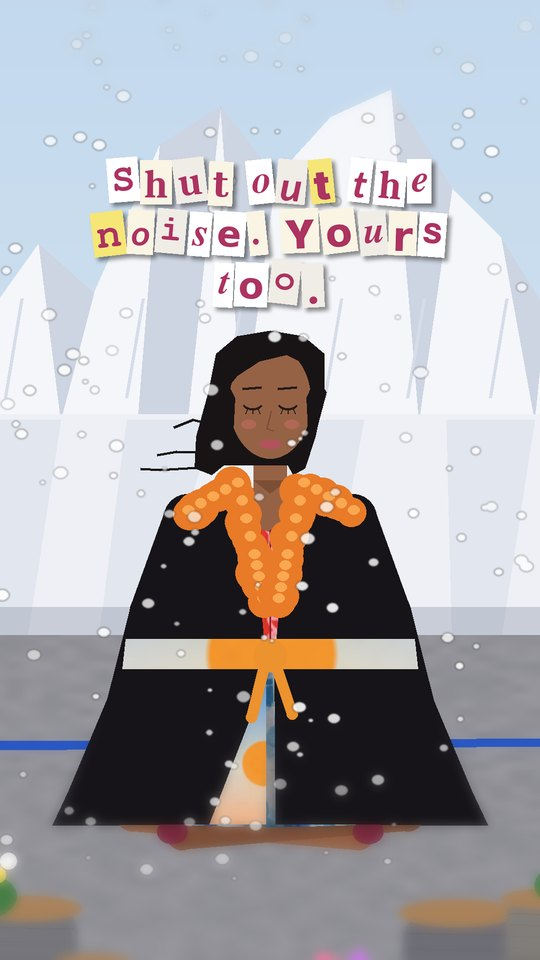
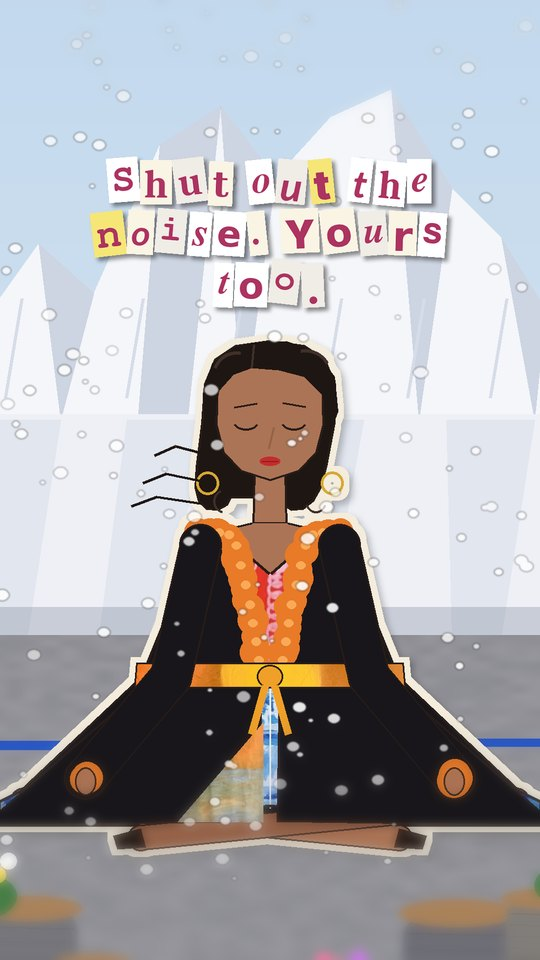
Reel 3 storyboard redrawn with the Reverie-matched girl, real Sunset boxes and Colours of Janaki coat
Claude-Session: https://claude.ai/code/session_019PesBt99WngamYtmRE4Gta

Changed region(s): [[0.0, 0.3438, 1.0, 0.9062]]

diff --git a/reel3/girl.py b/reel3/girl.py
@@ -67,7 +67,7 @@ def _skirt_poly():
     return [(-37, 290)] + right + _wavy_hem(566, 182) + [(-x, y) for x, y in right[::-1]]
 
 
-def _bob(d, f, back=False):
+def _bob(d, f, back=False, wind=0.0):
     """Straight bob: dome on top, straight sides, ends just above the shoulders turning in."""
     def side(sx, back):
         pts = [(sx * 30, 2), (sx * 48, 14), (sx * 57, 36), (sx * 58, 70), (sx * 57, 108), (sx * 55, 126), (sx * 50, 138),
@@ -76,6 +76,7 @@ def _bob(d, f, back=False):
             pts = pts[:-4] + [(sx * 44, 146), (sx * 30, 151), (sx * 14, 153)]
         return pts
     out = [(0, -2)] + side(1, back) + side(-1, back)[::-1]
+    out = [(x + wind * 14 * max(0.0, (y - 60) / 90), y) for x, y in out]
     d.polygon(f.pl(out), fill=HAIR, outline=LINE, width=f.w(2))
 
 
@@ -91,23 +92,103 @@ def _hair_front(d, f):
         d.arc([*f.p(sx * 40 - 9, 128), *f.p(sx * 40 + 9, 148)], 20 if sx > 0 else 100, 160 if sx > 0 else 250, fill=HAIR_HI, width=f.w(2))
 
 
-def draw(layer, cx, top, height, view="front", eyes="closed", necklace=None, earrings=True):
-    """Draw the girl onto RGBA `layer` (with sticker edge). necklace: None | 'gold' | 'diamond'."""
+
+COAT = (24, 22, 26)
+FUR, FUR_L = (232, 122, 40), (250, 170, 86)
+JANAKI = Image.open(os.path.join(A, "janaki_full.jpg")).convert("RGB")   # coat lining: the whole painting
+SUNBELT = Image.open(os.path.join(A, "janaki_sun.jpg")).convert("RGB")   # belt: the sun
+
+ARMS = {
+    "down":     ([(-60, 176), (-66, 300), (-70, 420)], [(60, 176), (66, 300), (70, 420)]),
+    "necklace": ([(-60, 176), (-66, 300), (-70, 420)], [(60, 176), (80, 262), (20, 196)]),
+    "knees":    ([(-60, 176), (-86, 290), (-160, 378)], [(60, 176), (86, 290), (160, 378)]),
+    "crayon":   ([(-60, 176), (-82, 290), (-110, 392)], [(60, 176), (88, 290), (40, 396)]),
+    "stitch":   ([(-60, 176), (-86, 286), (-32, 336)], [(60, 176), (86, 286), (30, 330)]),
+}
+
+
+def _skirt_seat():
+    right = [(37, 290), (70, 318), (130, 350), (196, 378), (236, 398)]
+    xs = np.linspace(236, -236, 70)
+    hem = [(x, 410 + 7 * np.cos((x + 236) / 472 * 5 * 2 * np.pi)) for x in xs]
+    return [(-37, 290)] + right + hem + [(-x, y) for x, y in right[::-1]]
+
+
+def _fur(d, pts, r, seed=0):
+    rng = np.random.default_rng(seed)
+    pts = np.array(pts, float)
+    seg = np.concatenate([np.linspace(pts[i], pts[i + 1], 7, endpoint=False) for i in range(len(pts) - 1)] + [pts[-1:]])
+    for q in seg:
+        rr = r * rng.uniform(0.8, 1.15); j = rng.normal(0, r * 0.12, 2)
+        d.ellipse([q[0] + j[0] - rr, q[1] + j[1] - rr, q[0] + j[0] + rr, q[1] + j[1] + rr], fill=FUR)
+    for q in seg[::2]:
+        rr = r * 0.45
+        d.ellipse([q[0] - rr * 0.6, q[1] - rr * 1.1, q[0] + rr * 0.9, q[1] + rr * 0.2], fill=FUR_L)
+
+
+def _coat_back(fig, f, coat, pose):
+    d = ImageDraw.Draw(fig)
+    hem_y = 420 if pose == "seat" else 700
+    hem_x = 250 if pose == "seat" else 120
+    if coat == "on":
+        d.polygon(f.pl([(-60, 162), (60, 162), (112, 290), (hem_x, hem_y), (-hem_x, hem_y), (-112, 290)]), fill=COAT, outline=LINE, width=f.w(2))
+    else:  # slipped to the elbows: the lining shows
+        d.polygon(f.pl([(-92, 268), (92, 268), (142, 320), (262, 420), (-262, 420), (-142, 320)]), fill=COAT, outline=LINE, width=f.w(2))
+        for sx in (-1, 1):
+            _tex(fig, JANAKI, f.pl([(sx * 90, 272), (sx * 72, 300), (sx * 112, 410), (sx * 250, 416), (sx * 140, 322)]))
+        d = ImageDraw.Draw(fig)
+        for sx in (-1, 1):
+            _fur(d, f.pl([(sx * 92, 268), (sx * 120, 300), (sx * 146, 330)]), f.w(12), seed=8 + sx)
+
+
+def _coat_front(fig, f, pose):
+    d = ImageDraw.Draw(fig)
+    hem_y = 420 if pose == "seat" else 700
+    hem_x = 250 if pose == "seat" else 120
+    for sx in (-1, 1):
+        panel = [(sx * 64, 166), (sx * 30, 168), (sx * 8, 292), (sx * 6, hem_y - 4), (sx * hem_x, hem_y), (sx * 112, 300), (sx * 70, 200)]
+        d.polygon(f.pl(panel), fill=COAT, outline=LINE, width=f.w(2))
+    _tex(fig, JANAKI, f.pl([(-6, 330), (-6, hem_y - 4), (-80, hem_y - 4)]))   # lining flash
+    d = ImageDraw.Draw(fig)
+    for sx in (-1, 1):
+        _fur(d, f.pl([(sx * 62, 164), (sx * 32, 170), (sx * 18, 230), (sx * 9, 286)]), f.w(12), seed=1 + sx)
+    _tex(fig, SUNBELT, f.pl([(-116, 278), (116, 278), (118, 300), (-118, 300)]))   # sun belt
+    d = ImageDraw.Draw(fig)
+    d.polygon(f.pl([(-116, 278), (116, 278), (118, 300), (-118, 300)]), outline=LINE, width=f.w(1.5))
+    d.ellipse([*f.p(-11, 280), *f.p(11, 300)], fill=(240, 160, 40), outline=LINE, width=f.w(1.5))
+    for sx in (-1, 1):
+        d.line(f.pl([(sx * 4, 298), (sx * 16, 340)]), fill=(240, 160, 40), width=f.w(6))
+
+
+def draw(layer, cx, top, height, view="front", eyes="closed", necklace=None, earrings=True,
+         pose="stand", arms="down", coat=None, wind=0.0):
+    """Draw the girl onto RGBA `layer` (with sticker edge).
+    pose: stand | seat (cross-legged).  arms: down | necklace | knees | crayon | stitch.
+    coat: None | on | slip (black long coat, orange fur, Colours of Janaki lining, sun belt).  Returns the Fig mapping."""
     f = Fig(cx, top, height / 975)
     fig = Image.new("RGBA", layer.size, (0, 0, 0, 0)); d = ImageDraw.Draw(fig)
-    _bob(d, f, back=(view == "back"))
-    # legs + heels
-    for sx in (-1, 1):
+    _bob(d, f, back=(view == "back"), wind=wind)
+    if coat:
+        _coat_back(fig, f, coat, pose)
+        d = ImageDraw.Draw(fig)
+    if pose == "seat":
+        for sx in (-1, 1):  # crossed shins under the hem
+            _limb(d, [f.p(sx * 214, 398), f.p(-sx * 112, 430)], f.w(20), SKIN if sx < 0 else SKIN_SH, f)
+            d.polygon(f.pl([(-sx * 112, 422), (-sx * 136, 428), (-sx * 132, 440), (-sx * 108, 438)]), fill=LINE)
+    for sx in ((-1, 1) if pose == "stand" else ()):
         _limb(d, [f.p(sx * 20, 560), f.p(sx * 19, 760), f.p(sx * 17, 950)], f.w(20), SKIN if view == "front" else SKIN_SH, f)
         d.line(f.pl([(sx * 17 - 9, 952), (sx * 17 + 9, 952)]), fill=LINE, width=f.w(3))
         d.line(f.pl([(sx * 17 + 6, 950), (sx * 17 + 10, 968)]), fill=LINE, width=f.w(3))
         d.line(f.pl([(sx * 17 - 8, 942), (sx * 17 + 9, 940)]), fill=GOLD, width=f.w(2))
     # skirt (front and back are the same print)
-    sk = f.pl(_skirt_poly())
+    sk = f.pl(_skirt_poly() if pose == "stand" else _skirt_seat())
     _tex(fig, SKIRT, sk)
     d = ImageDraw.Draw(fig)
     for x in (-150, -95, -45, 0, 45, 95, 150):  # panel seams
-        d.line([f.p(x * 0.2, 292), f.p(x, 566 - 6 * abs(np.cos(x / 20)))], fill=(255, 255, 255, 70), width=f.w(1.5))
+        if pose == "stand":
+            d.line([f.p(x * 0.2, 292), f.p(x, 566 - 6 * abs(np.cos(x / 20)))], fill=(255, 255, 255, 70), width=f.w(1.5))
+        else:
+            d.line([f.p(x * 0.2, 292), f.p(x * 1.5, 404)], fill=(255, 255, 255, 70), width=f.w(1.5))
     d.polygon(sk, outline=LINE, width=f.w(2.5))
     # neck + shoulders (angular, like Reverie)
     d.polygon(f.pl([(-14, 112), (14, 112), (15, 160), (-15, 160)]), fill=SKIN, outline=LINE, width=f.w(2))
@@ -163,14 +244,32 @@ def draw(layer, cx, top, height, view="front", eyes="closed", necklace=None, ear
         for sx in (-1, 1):
             d2.arc([*f.p(sx * 30 - 22, 112), *f.p(sx * 30 + 22, 150)], 30 if sx > 0 else 90, 150 if sx > 0 else 160, fill=HAIR_HI, width=f.w(3))
         d2.line(f.pl([(0, 4), (0, 60)]), fill=HAIR_HI, width=f.w(2))
+    if coat == "on":
+        _coat_front(fig, f, pose)
+        d = ImageDraw.Draw(fig)
     # arms (in front of the skirt edge)
-    for sx in (-1, 1):
-        _limb(d, [f.p(sx * 60, 176), f.p(sx * 66, 300), f.p(sx * 70, 420)], f.w(17), SKIN, f)
-        d.ellipse([*f.p(sx * 70 - 9, 414), *f.p(sx * 70 + 9, 440)], fill=SKIN, outline=LINE, width=f.w(1.5))
+    for sx, path in zip((-1, 1), ARMS[arms]):
+        pts = [f.p(x, y) for x, y in path]
+        if coat == "on":
+            _limb(d, pts, f.w(34), COAT, f)
+        elif coat == "slip":
+            _limb(d, pts[:2], f.w(17), SKIN, f); _limb(d, pts[1:], f.w(34), COAT, f)
+        else:
+            _limb(d, pts, f.w(17), SKIN, f)
+        h = pts[-1]
+        if coat:
+            _fur(d, [h, (h[0] + 1, h[1])], f.w(13), seed=3 + sx)
+        r = f.w(9)
+        d.ellipse([h[0] - r, h[1] - r, h[0] + r, h[1] + r + f.w(6)], fill=SKIN, outline=LINE, width=f.w(1.5))
     # sticker edge, like Reverie
     a = fig.split()[3]
     edge = a.filter(ImageFilter.MaxFilter(f.w(10) | 1))
     st = Image.new("RGBA", layer.size, STICKER + (0,)); st.putalpha(edge)
     sh = Image.new("RGBA", layer.size, (0, 0, 0, 0)); sh.putalpha(edge.filter(ImageFilter.GaussianBlur(6)).point(lambda v: v * 0.25))
     layer.alpha_composite(sh, (6, 8)); layer.alpha_composite(st); layer.alpha_composite(fig)
-    return layer
+    if wind:
+        d = ImageDraw.Draw(layer)
+        for k, y in enumerate((96, 120, 140)):
+            x0 = -np.sign(wind) * -60 if False else np.sign(wind) * 60
+            d.line(f.pl([(x0, y), (x0 + np.sign(wind) * (22 + 8 * k), y - 6), (x0 + np.sign(wind) * (40 + 10 * k), y + 2)]), fill=HAIR, width=f.w(2.5), joint="curve")
+    return f

diff --git a/reel3/board.py b/reel3/board.py
@@ -47,8 +47,9 @@ def janaki_standin(w=640, h=420, seed=3):
     return Image.fromarray(np.clip(img, 0, 255).astype(np.uint8))
 
 
-JANAKI = janaki_standin()
-SUNBELT = JANAKI.crop((int(640 * 0.62) - 150, int(420 * 0.58) - 60, int(640 * 0.62) + 150, int(420 * 0.58) + 60))
+import girl as G2  # the campaign girl, matched to Reverie
+JANAKI = G2.JANAKI      # Colours of Janaki: coat lining
+SUNBELT = G2.SUNBELT    # its sun: the belt
 
 # ---------------- palette ----------------
 SKIN, SKIN_D = (150, 98, 70), (124, 78, 54)
@@ -342,32 +343,36 @@ def room(state="meditate"):
         d = ImageDraw.Draw(img)
         for k, c in enumerate([(220, 40, 60), (36, 84, 196), (240, 170, 30), (40, 150, 80)]):
             d.rounded_rectangle([760 + k * 40, 3600, 784 + k * 40, 3690], 8, fill=c)
-    # the girl
-    g = G(*GIRL)
+    # the girl (seated, cross-legged)
+    GH, GT = 2040, 2420
+    lay = img.convert("RGBA")
     if state == "meditate":
-        seated(img, g, coat="on", eyes="closed", hands="knees", wind=-1.0)
+        G2.draw(lay, 1080, GT, GH, pose="seat", arms="knees", coat="on", eyes="closed", wind=-1.0)
     elif state == "coatoff":
-        seated(img, g, coat="slip", eyes="open", hands="knees", wind=-0.6)
+        G2.draw(lay, 1080, GT, GH, pose="seat", arms="knees", coat="slip", eyes="open", wind=-0.5)
     elif state == "crayon":
-        seated(img, g, coat="off", eyes="open", hands="crayon", wind=-0.4)
-        d = ImageDraw.Draw(img); h = g.P(70, -170)
-        d.rounded_rectangle([h[0] - 8, h[1] - 10, h[0] + 12, h[1] + 70], 6, fill=(36, 84, 196))
+        f = G2.draw(lay, 1080, GT, GH, pose="seat", arms="crayon", eyes="open")
+        d = ImageDraw.Draw(lay); h = f.p(40, 396)
+        d.rounded_rectangle([h[0] - 8, h[1] - 60, h[0] + 12, h[1] + 10], 6, fill=(36, 84, 196))
         # the coat lies folded beside her, lining up
-        d.polygon([(1460, 3360), (1760, 3380), (1800, 3560), (1440, 3560)], fill=BLACK)
-        tex_fill(img, JANAKI, [(1490, 3390), (1740, 3405), (1770, 3530), (1470, 3530)])
-        fur_chain(ImageDraw.Draw(img), [(1460, 3360), (1760, 3380)], 24, 9)
+        d.polygon([(1480, 3380), (1800, 3400), (1840, 3580), (1460, 3580)], fill=BLACK)
+        tex_fill(lay, JANAKI, [(1510, 3410), (1780, 3425), (1810, 3550), (1490, 3550)])
+        fur_chain(ImageDraw.Draw(lay), [(1480, 3380), (1800, 3400)], 22, 9)
     elif state == "stitch":
-        seated(img, g, coat="off", eyes="open", hands="stitch", wind=-0.4)
-        d = ImageDraw.Draw(img)
-        lap = [g.P(-230, -330), g.P(230, -330), g.P(300, -120), g.P(-300, -120)]
-        d.polygon(lap, fill=BLACK)
-        tex_fill(img, JANAKI, [g.P(-170, -310), g.P(60, -310), g.P(90, -150), g.P(-200, -150)])
-        tex_fill(img, SUNBELT, [g.P(80, -300), g.P(250, -300), g.P(260, -250), g.P(90, -250)])
-        fur_chain(d, [g.P(-230, -330), g.P(230, -330)], 26, 7)
-        for H_ in (g.P(-70, -250), g.P(60, -270)):
-            d.ellipse([H_[0] - 30, H_[1] - 26, H_[0] + 30, H_[1] + 30], fill=SKIN)
-        n0 = g.P(60, -290); d.line([n0, (n0[0] + 160, n0[1] - 300), (n0[0] + 220, n0[1] - 360)], fill=(232, 122, 40), width=4)
+        f = G2.draw(lay, 1080, GT, GH, pose="seat", arms="stitch", eyes="open")
+        d = ImageDraw.Draw(lay)
+        lap = f.pl([(-150, 312), (150, 312), (196, 404), (-196, 404)])
+        d.polygon(lap, fill=BLACK, outline=G2.LINE, width=3)
+        tex_fill(lay, JANAKI, f.pl([(-120, 322), (40, 322), (60, 396), (-150, 396)]))
+        tex_fill(lay, SUNBELT, f.pl([(60, 330), (150, 330), (160, 356), (66, 356)]))
+        fur_chain(ImageDraw.Draw(lay), f.pl([(-150, 312), (150, 312)]), 22, 7)
+        d = ImageDraw.Draw(lay)
+        for hx, hy in ((-32, 336), (30, 330)):
+            q = f.p(hx, hy); d.ellipse([q[0] - 19, q[1] - 19, q[0] + 19, q[1] + 31], fill=G2.SKIN, outline=G2.LINE, width=3)
+        n0 = f.p(30, 326)
+        d.line([n0, (n0[0] + 160, n0[1] - 300), (n0[0] + 220, n0[1] - 360)], fill=(232, 122, 40), width=4)
         d.line([n0, (n0[0] + 14, n0[1] - 60)], fill=(200, 205, 215), width=6)
+    img = lay.convert("RGB")
     # cotton fluff in the fan's wind: snow up close
     if state in ("meditate", "coatoff"):
         lay = Image.new("RGBA", img.size, (0, 0, 0, 0)); ld = ImageDraw.Draw(lay)
@@ -432,8 +437,7 @@ def boutique():
     tag = r2.ransom("SOLD", (173, 51, 97), size=62, seed=41, max_w=400)
     img.paste(tag, (mx - tag.width // 2, my + 940), tag)
     d.line([mx, my + 900, mx, my + 950], fill=(120, 90, 60), width=3)
-    standing(img, G(300, 1760, 0.72), view="front", arm="down", necklace=False)
-    return img
+    lay = img.convert("RGBA"); G2.draw(lay, 300, 610, 1150, view="front", eyes="open"); return lay.convert("RGB")
 
 
 def mirror():
@@ -444,15 +448,14 @@ def mirror():
     d.ellipse([m[0] - 22, m[1] - 22, m[2] + 22, m[3] + 22], fill=(170, 130, 60))
     refl = Image.new("RGB", (FW, FH), (214, 230, 242)); rd = ImageDraw.Draw(refl)
     rd.rectangle([0, 1500, FW, FH], fill=(166, 122, 86))
-    standing(refl, G(775, 1700, 0.82), view="front", arm="necklace", necklace=True)
+    rl = refl.convert("RGBA"); G2.draw(rl, 775, 400, 1290, arms="necklace", necklace="diamond", eyes="open"); refl = rl.convert("RGB")
     mk = Image.new("L", (FW, FH), 0); ImageDraw.Draw(mk).ellipse(m, fill=255)
     img.paste(refl, (0, 0), mk)
     shade(img, [(560, 300), (680, 300), (600, 1500), (560, 1400)], (255, 255, 255), 0.12)
     d = ImageDraw.Draw(img)
     d.line([620, 1640, 560, 1800], fill=(150, 110, 50), width=14); d.line([930, 1640, 990, 1800], fill=(150, 110, 50), width=14)
     # her, seen from behind, mid-turn: the back top is the plain blue water
-    standing(img, G(300, 1900, 0.82), view="back", arm="down", necklace=False)
-    return img
+    lay = img.convert("RGBA"); G2.draw(lay, 300, 480, 1400, view="back"); return lay.convert("RGB")
 
 
 def endcard():
